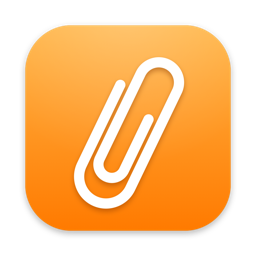
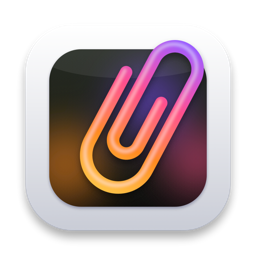
Ícone novo no README

diff --git a/README.md b/README.md
@@ -1,3 +1,5 @@
+<p align="center"><img src="docs/icon.png" width="128" alt="Ícone do Clipo"></p>
+
 <h1 align="center">Clipo</h1>
 
 <p align="center">Gerenciador de área de transferência para macOS, na barra de menus.<br>Guarda o que você copia e cola de novo com um atalho.</p>
